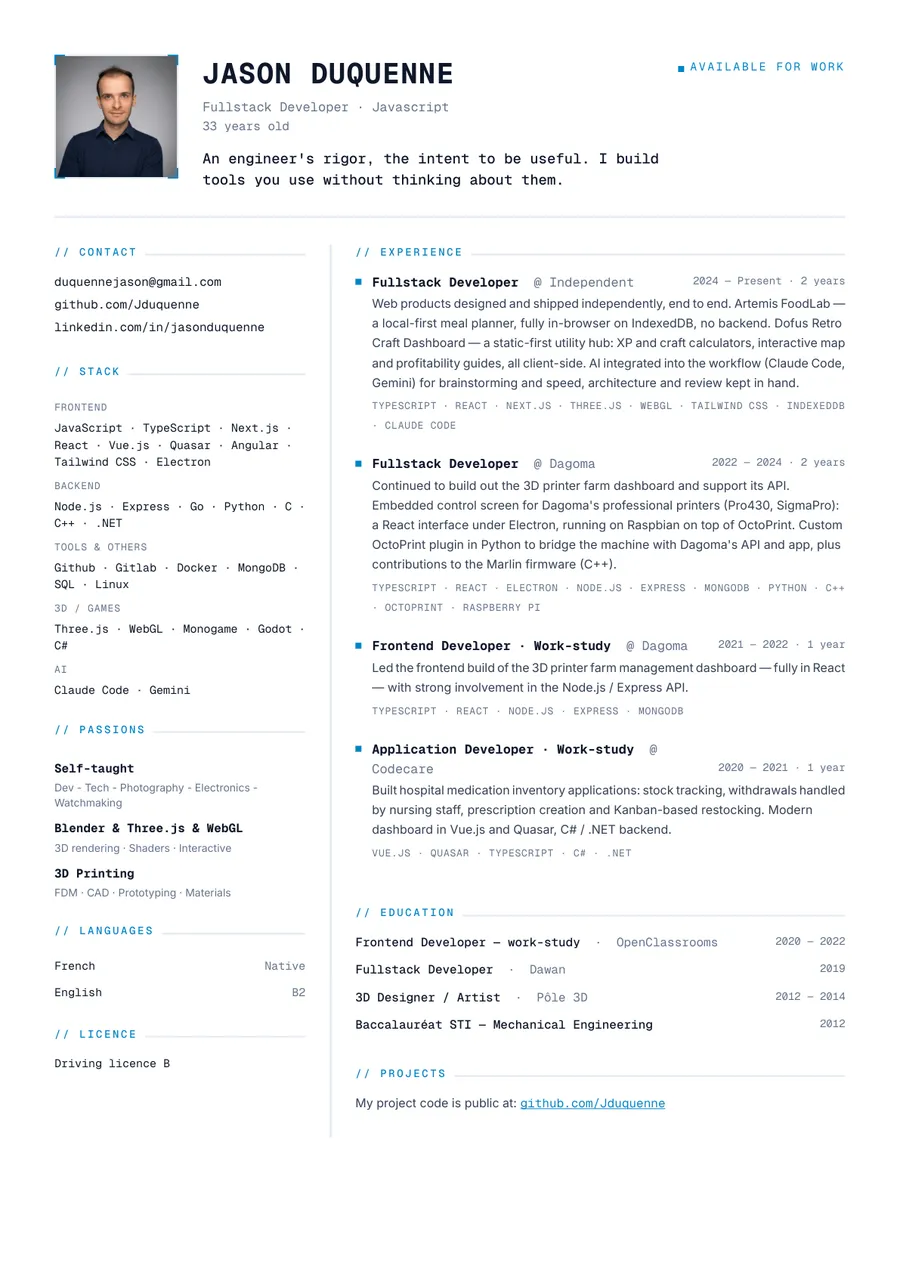
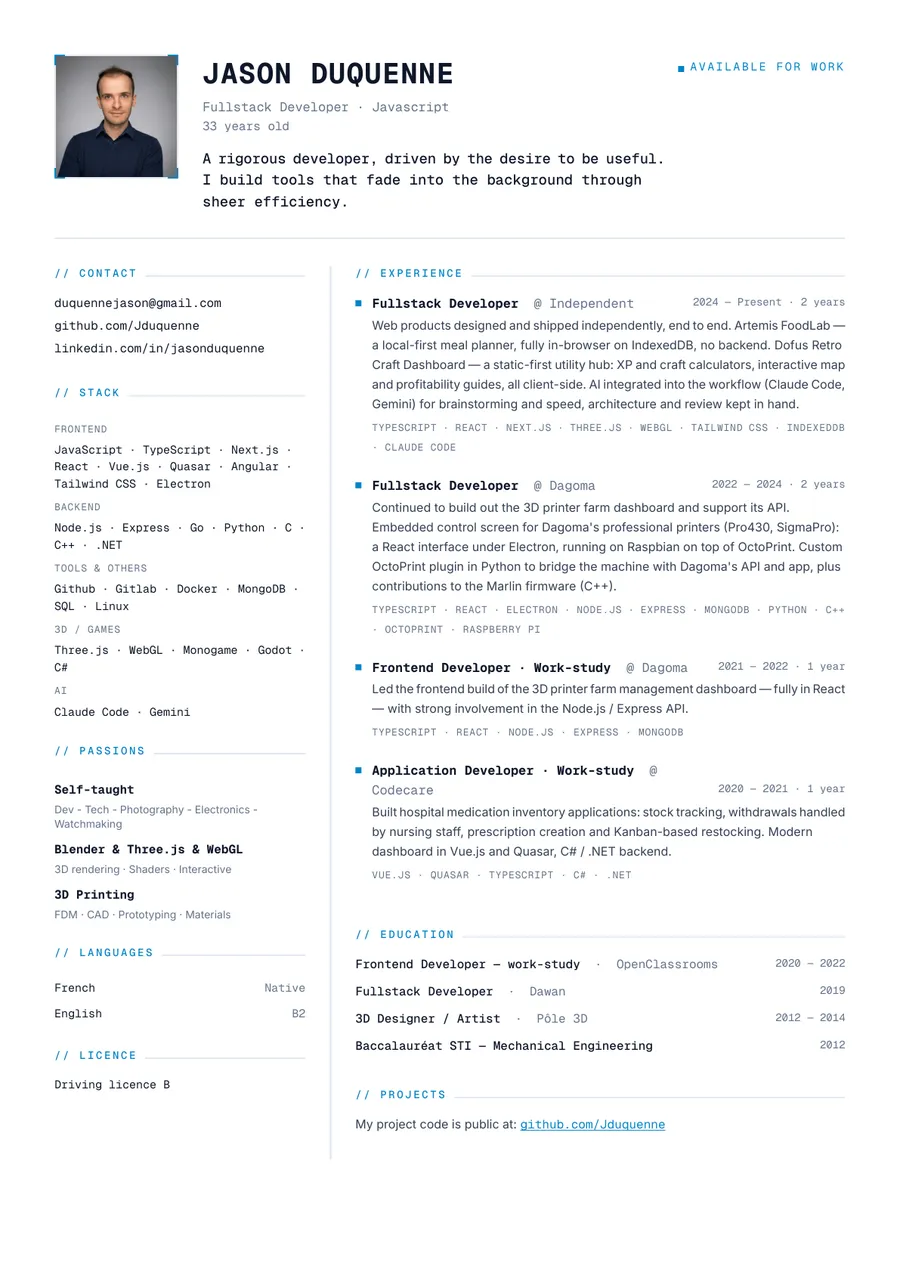
fix: rewrite the tagline in natural French

diff --git a/src/lib/data/cv.ts b/src/lib/data/cv.ts
@@ -92,8 +92,8 @@ export const cv: CV = {
       fr: "Développeur Fullstack · Javascript",
     },
     description: {
-      en: "An engineer's rigor, the intent to be useful. I build tools you use without thinking about them.",
-      fr: "La rigueur d'un ingénieur, l'intention de rendre service. Je construis des outils qu'on utilise sans y penser.",
+      en: "A rigorous developer, driven by the desire to be useful. I build tools that fade into the background through sheer efficiency.",
+      fr: "Développeur rigoureux, guidé par l'envie d'être utile. Je conçois des outils qui se font oublier par leur efficacité.",
     },
     available: true,
   },
